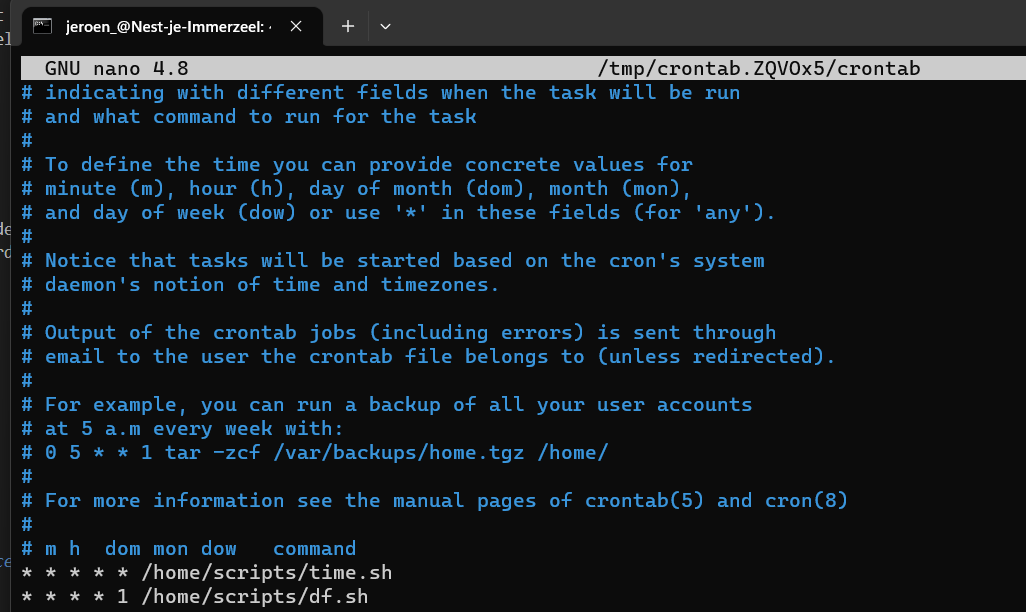
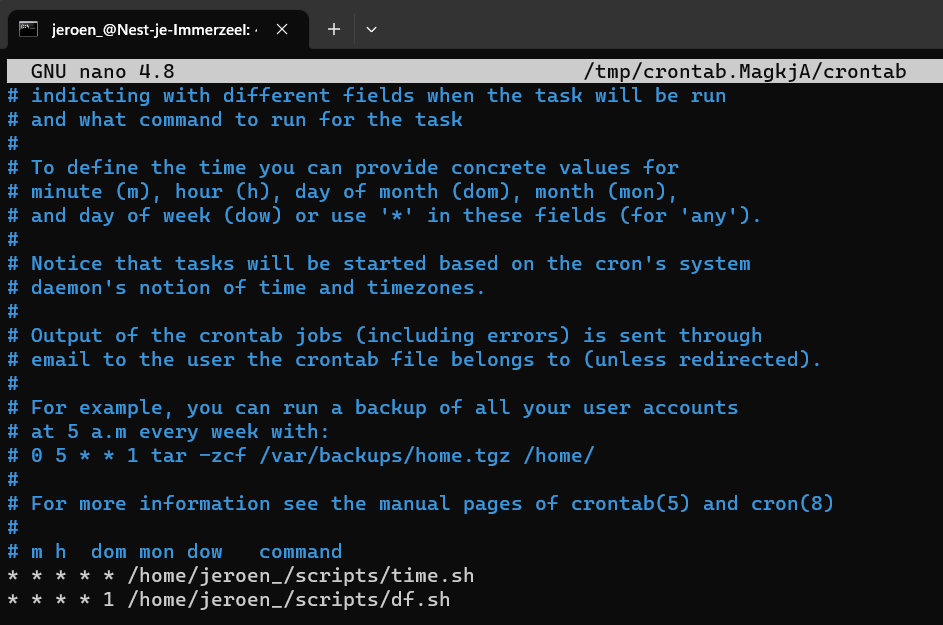
Fixed images
Fixed text

Changed region(s): [[0.0, 0.0, 1.0, 0.9935]]

diff --git a/01_Linux_1/Linux_Opdrachten_deel_3.md b/01_Linux_1/Linux_Opdrachten_deel_3.md
@@ -11,7 +11,7 @@ Binnen deze opdracht worden de volgende 3 deelopdrachten gevraagd:
 ### *"Welke bronnen heb ik gebruikt?"*
 Het boek *LPIC-1 Study Guide fifth edition* voor de meeste onderdelen.  
 
-En deze websites:
+En deze websites:  
 https://www.cyberciti.biz/faq/how-do-i-add-jobs-to-cron-under-linux-or-unix-oses/   
 https://crontab.guru/every-1-minute
 https://opensource.com/article/18/7/how-check-free-disk-space-linux
@@ -48,7 +48,7 @@ Voor de tijd geldt dat crontab een geheel eigen, maar relijk simpele syntax kent
 En elke optie die niet gebruikt wordt kan met een * worden aangegeven. Als alle opties met \* worden aangegeven wordt een job elke minuut uitgevoerd.
 
 In deze is de regel die er toevoegd moet worden dus:  
-**\* \* \* \* \* /home/script/time.sh**
+**\* \* \* \* \* /home/jeroen_/scripts/time.sh**
 
 ![Het crontab](/00_includes/crontab_time.png)
 *crontab entry voor het date commando*
@@ -73,10 +73,12 @@ logger The current disk usage is: $disk_usage
 
 ![Het script](/00_includes/df_sh.png)
 
+![De output van het df script](/00_includes/disksize.png)
+
 #### *2: "Use a cron job so that it runs weekly."*
 
 Om het aangemaakt script elke week te draaien is het nodig om met **crontab -e** de crontab te openen, en daarbinnen een zin toe te voegen met deze inhoud:  
-**\* \* \* \* \* 1 /home/scripts/df.sh**
+**\* \* \* \* \* 1 /home/jeroen_/scripts/df.sh**
 
 Hiermee zal cron op de maandag het **df.sh** script draaien.
 
